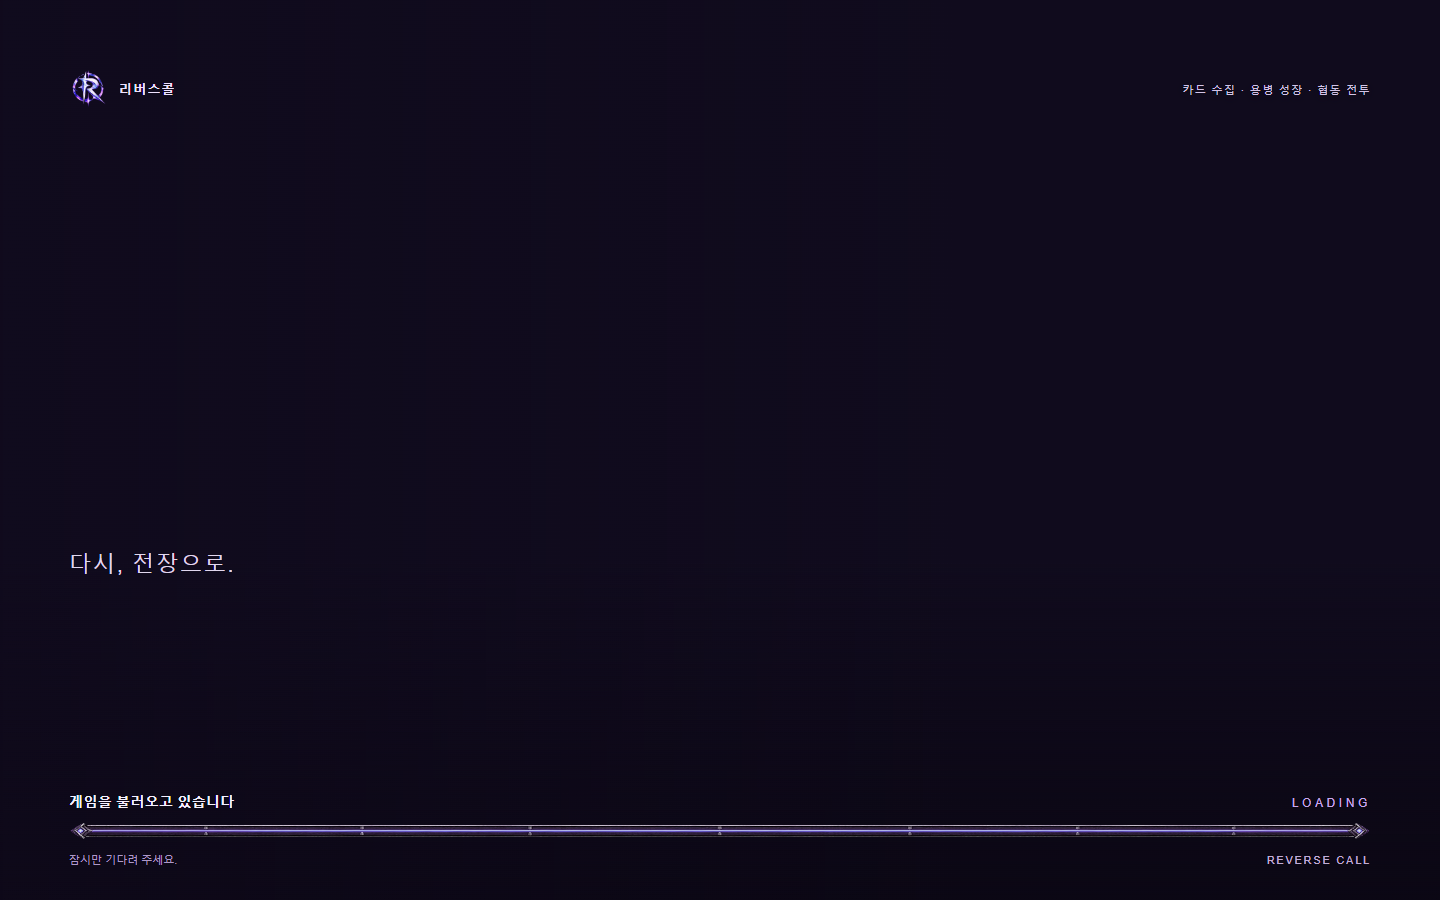
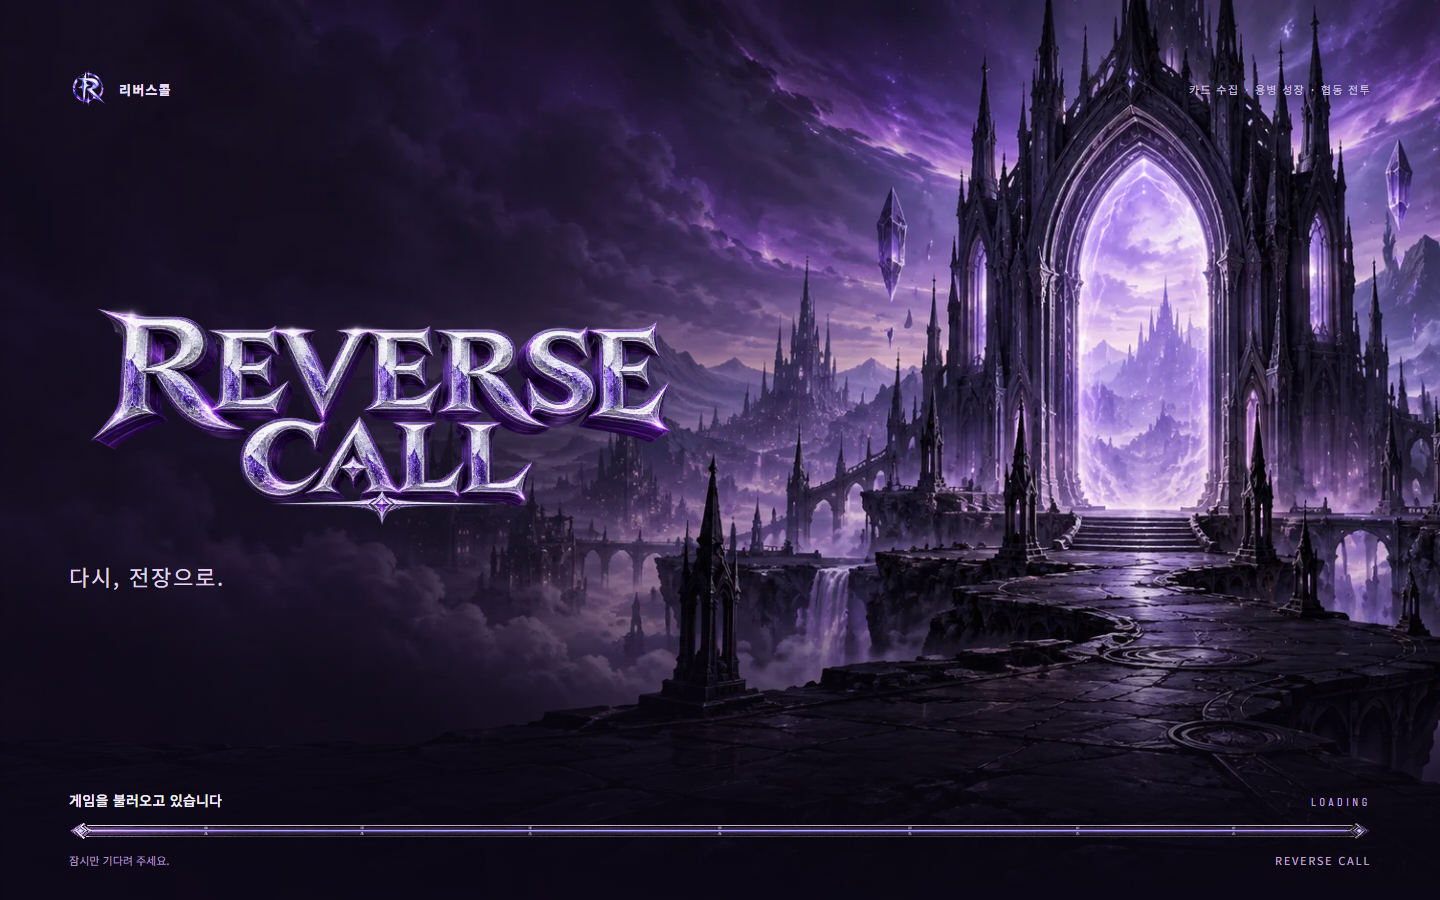
docs: verify final purple loading layout [CF-Pages-Skip]

diff --git a/packaging/windows-client/README.md b/packaging/windows-client/README.md
@@ -2,6 +2,10 @@
 
 독립 Electron 런처와 전용 WPF 화면의 Windows x64 설치 파일. 실제 파일 설치·제거는 내장 NSIS 엔진이 무인으로 수행한다. 게임의 기존 HTTPS 원점과 계정을 사용하며 웹/PWA 소스·계정·서비스워커 저장소를 변경하지 않는다. 0.1.5부터 게임 파일과 런처 실행 파일 모두 업데이트한다.
 
+## 보라색 런처 — 0.1.9
+
+성문 배경과 REVERSE CALL 입체 글자, 짙은 보라색 패널·행동 버튼을 사용한다. 기존 R 심벌·계정·설치 GUID·자동 업데이트를 유지한다. 첫 게임 로딩도 같은 배경과 제목을 쓴다. 원화·프롬프트 색인은 `art/manifest.json`, 검수 기록은 `docs/qa/launcher-purple-20261024/README.md`다.
+
 ## 리버스콜 전환 — 0.1.7
 
 사용자 첨부 R 심벌을 웹·PWA·Windows 공통 아이콘으로 적용하고 모든 화면의 서비스명을 리버스콜로 변경했다. 실행 파일은 `ReverseCall.exe`이며 기존 0.1.5/0.1.6 자동 업데이트 공급처와 설치 GUID는 유지한다. 기존 `%APPDATA%/숲켓몬` 프로필을 명시적으로 사용하여 이름 변경으로 로그인과 리소스 캐시가 초기화되지 않는다. 새 설치 및 업데이트 바로가기는 리버스콜로 표시한다.
@@ -19,7 +23,7 @@ Pop-Location
 node scripts/build-windows-client.mjs C:/Users/User/.codex/tmp/soopketmon-windows-build-20261015
 ```
 
-결과: 외부 빌드 디렉터리의 `release/ReverseCall-Setup-0.1.7-x64.exe`. 사용자에게는 `Setup`을 안내한다. `Engine`과 `.blockmap`, `latest.yml`은 자동 업데이트에 필요하며 공개 릴리스에 함께 업로드한다. 현재 코드 서명 인증서는 설정되지 않았다. 일반 사용자 권한으로 설치하며 바로가기와 제거 프로그램을 제공한다. 사용자 범위 선택 화면은 생략하고 현재 사용자로 자동 설정한다. 삭제 시 앱 데이터는 보존한다.
+결과: 외부 빌드 디렉터리의 `release/ReverseCall-Setup-0.1.9-x64.exe`. 사용자에게는 `Setup`을 안내한다. `Engine`과 `.blockmap`, `latest.yml`은 자동 업데이트에 필요하며 공개 릴리스에 함께 업로드한다. 현재 코드 서명 인증서는 설정되지 않았다. 일반 사용자 권한으로 설치하며 바로가기와 제거 프로그램을 제공한다. 사용자 범위 선택 화면은 생략하고 현재 사용자로 자동 설정한다. 삭제 시 앱 데이터는 보존한다.
 
 설치 안내문 원본 `LICENSE.txt`는 UTF-8로 관리한다. 빌드 스크립트가 NSIS에 넣는 `build-resources/LICENSE.txt`를 UTF-8 BOM·CRLF로 생성하므로 반드시 위 스크립트로 스테이징한 뒤 빌드한다. 명시적 `nsis.license` 경로는 electron-builder의 지역별 라이선스 인코딩 보정을 거치지 않는다. 관련 회귀 검사는 `node --test tests/windows-installer-20261015.test.mjs`다.
 

diff --git a/docs/qa/launcher-purple-20261024/README.md b/docs/qa/launcher-purple-20261024/README.md
@@ -28,10 +28,12 @@ Production base verified through Cloudflare: `9f4aecd09cb6590af7f6bedc0e7454ae9e
 
 The original shared source checkout had unrelated active changes. A managed sparse worktree isolates this release; existing build dependencies and the previous client-only build directory were reused. No project/node_modules copy was made. New disposable dependencies are removed after verification; artwork/prompts and latest installer are retained.
 
-Production source **c3d4a2f92c469baf02c822e67782ad05e63aa2db**, Pages **6742467d**, Windows **0.1.9** published at https://github.com/GoGosing1111/cnine-card/releases/tag/v0.1.9.
+Final web source **a4631dec2d3d6c642ca110658e1a2b15dd0cffbd**, Pages **4020965f** (Windows source remains **c3d4a2f92c469baf02c822e67782ad05e63aa2db**), Windows **0.1.9** published at https://github.com/GoGosing1111/cnine-card/releases/tag/v0.1.9.
 
 All 40 scoped checks passed. The initial sparse checkout omitted three unrelated prison fixture PNGs used by the existing boot-regression file; materializing those tracked fixtures resolved preflight without changing tests or game logic. Pages publishes 19,999 files (14 uploaded, 19,985 reused). The three loading runtime WebPs match public SHA-256, and the real public first-loading screen loads the dimensional title then releases to the visible app without errors.
 
 Final installation download: https://github.com/GoGosing1111/cnine-card/releases/download/v0.1.9/ReverseCall-Setup-0.1.9-x64.exe. Installer/package/source verification and all five uploaded artifact digests passed. The existing R logo files remain unchanged.
 
 The temporary client dependencies and unpacked build were reclaimed (861,063,166 bytes); published installers, hashes, receipts, source and unique artwork are preserved.
+
+The final web-only correction places the image-title layout rules after the boot defaults, matching the six locally verified sizes; the existing boot suite passed 12/12 again. Public capture waits for stylesheets, fonts and two animation frames after decoding so it records painted images rather than the pre-paint compositor state. No runtime delay was introduced. Final public title is 620×248 at 1440×900, with the original R emblem, and the boot releases normally.

diff --git a/AGENTS.md b/AGENTS.md
@@ -1,6 +1,6 @@
 ## Windows 런처·첫 로딩 보라색 테마 — 2026-10-24
 
-- **운영 반영 완료:** 소스 `c3d4a2f92`, Pages `6742467d`, Windows `0.1.9`. 관련 검사 40개·실제 Electron 2개 크기/3개 패널·로딩 6개 화면 크기·공개 로딩 3파일 해시 검증 완료.
+- **운영 반영 완료:** 웹 소스 `a4631dec2`, Pages `4020965f`, Windows `0.1.9` (소스 `c3d4a2f92`). 관련 검사 40개·실제 Electron 2개 크기/3개 패널·로딩 6개 화면 크기·공개 로딩 3파일 해시 검증 완료.
 - 사용자 범위는 **Windows PC 런처 + 게임 첫 로딩 화면**이다. Android 런처는 제외한다.
 - 보라색 성문 배경과 **영어 REVERSE CALL 입체 이미지 글자**를 사용한다. 기존 R 심벌 자체를 교체하는 지시가 아니며 원본을 그대로 유지한다.
 - 후속 `남색 UI 변경해 안어올려`에 따라 런처의 공통 패널을 짙은 보라색 변형으로 사용한다. 금속 프레임 윤곽을 유지하며 기존 도감의 남색/연두색 원본은 보존한다.
